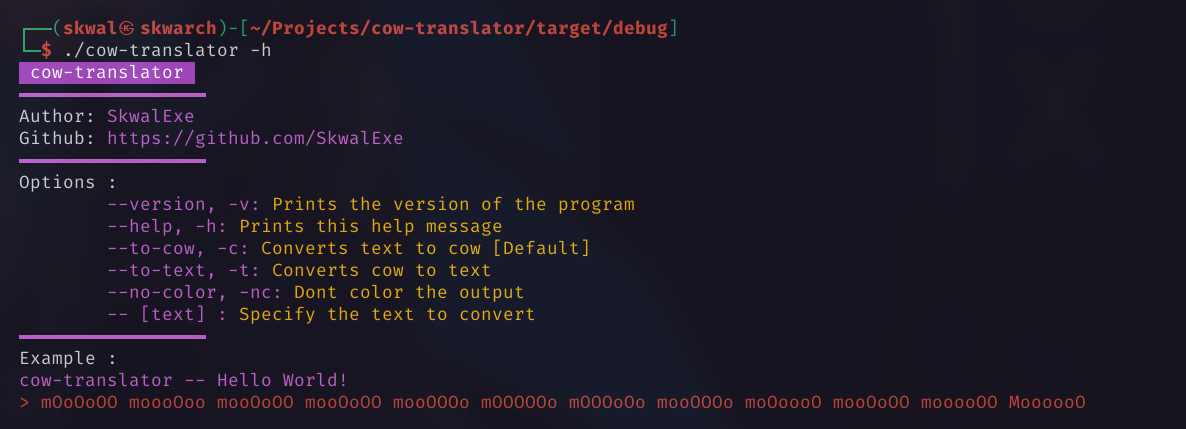
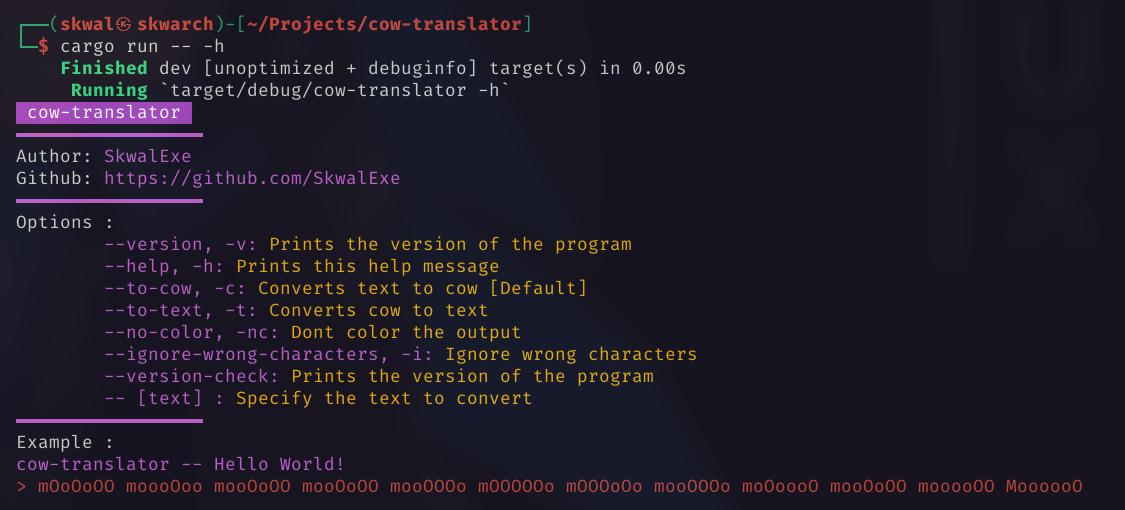
add version check option

Changed region(s): [[0.0, 0.4545, 0.9644, 0.9697], [0.0, 0.0303, 0.6222, 0.4545]]

diff --git a/src/main.rs b/src/main.rs
@@ -162,6 +162,13 @@ fn main() {
                 process::exit(0);
             }
 
+
+            "--version-check" => {
+                // allow other programs to check if the version is up to date
+                print!("{}", env!("CARGO_PKG_VERSION"));
+                process::exit(0);
+            }
+
             "-h" | "--help" => {
                 // print help and exit
                 println!("{}{} cow-translator {}", WHITE, BG_MAGENTA, RESET);
@@ -190,6 +197,11 @@ fn main() {
                     "\t{}--no-color, -nc: {}Dont color the output{}",
                     MAGENTA, YELLOW, RESET
                 );
+                println!(
+                    "\t{}--ignore-wrong-characters, -i: {}Ignore wrong characters{}",
+                    MAGENTA, YELLOW, RESET
+                );
+                println!("\t{}--version-check: {}Prints the version of the program{}", MAGENTA, YELLOW, RESET);
                 println!(
                     "\t{}-- [text] : {}Specify the text to convert{}",
                     MAGENTA, YELLOW, RESET
